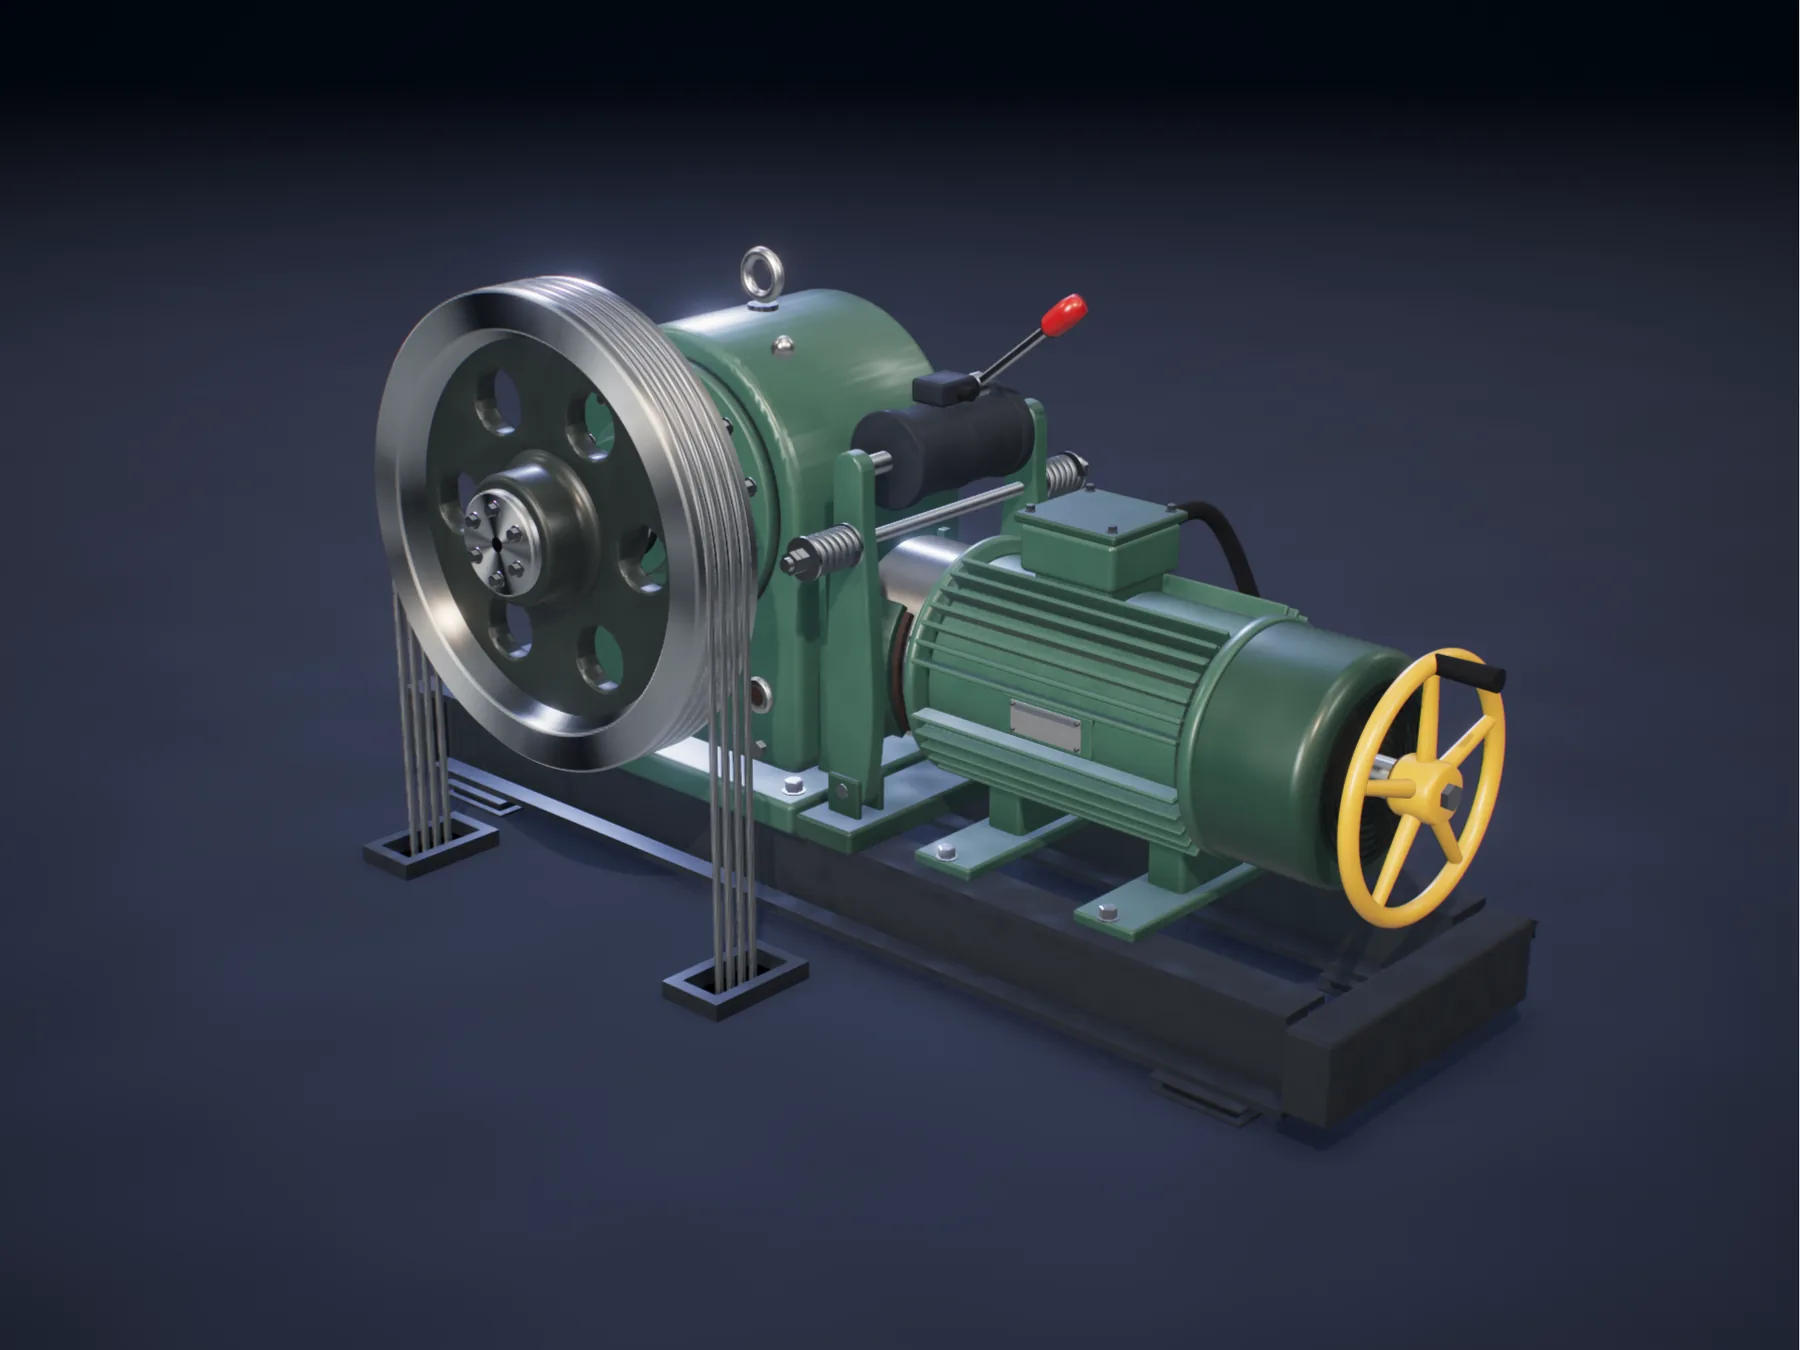
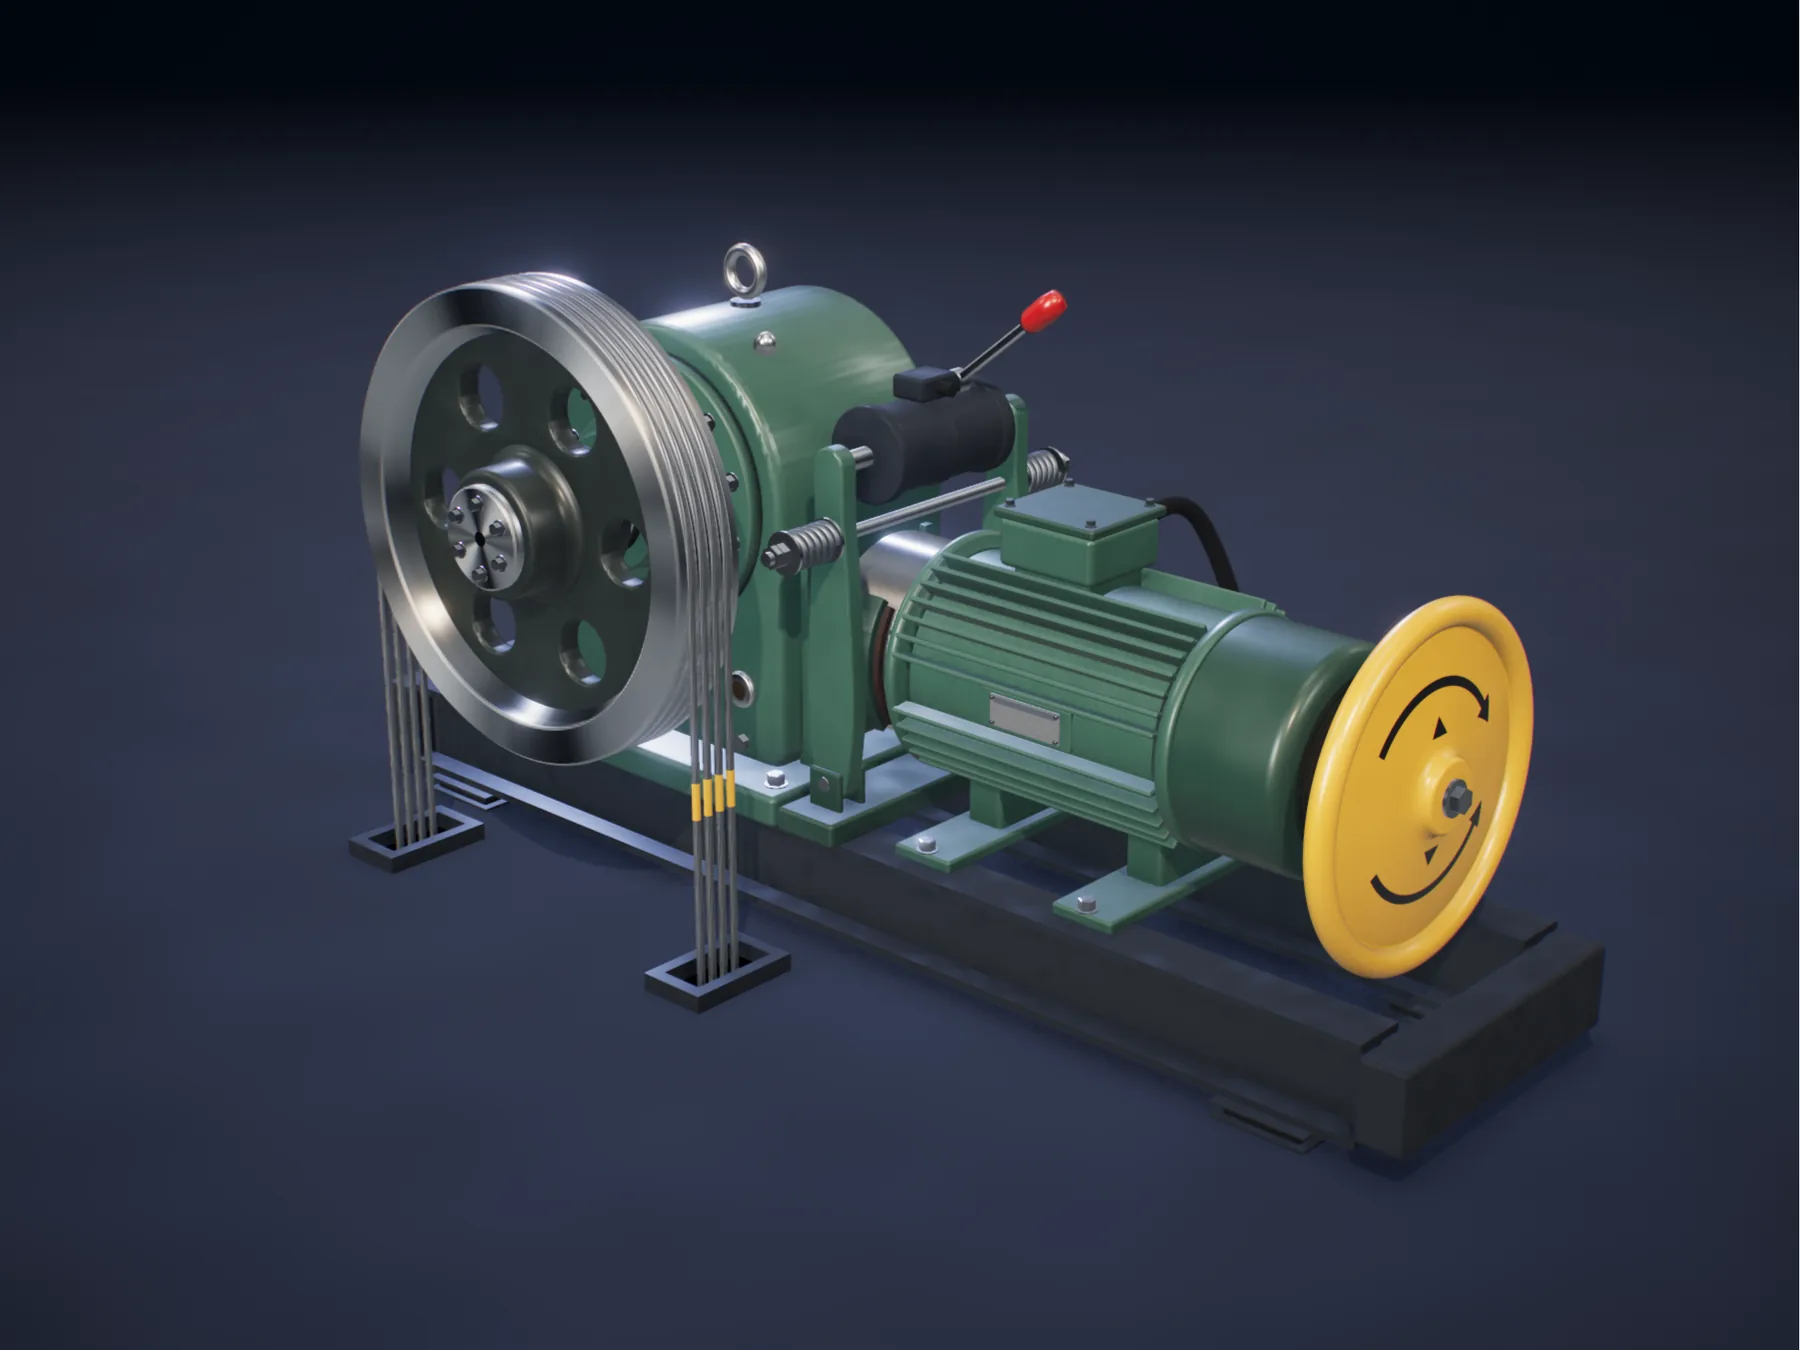
feat(argano): волан за асансьор — гладък диск без спици, посоки и маркировки по въжетата
- Воланът за ръчната маневра е гладък диск без спици и без дръжка, с
  навит ръб за хващане, жълт, с нарисувани посоки (стрелка във всяка
  посока, ▲ и ▼). Радиусът на хващане е 0,2 m — радиусът на волана от
  пример A (rh).
- Жълти маркировки по въжетата за ръчното спасяване; движат се с
  въжетата.
- Рамата е удължена: воланът слиза между гредите.
- Нов постер (20/32/51 KB).

Claude-Session: https://claude.ai/code/session_01JTq1AH8GzUr8vPLWF3yu9S

Changed region(s): [[0.1867, 0.1556, 0.9022, 0.8711]]

diff --git a/argano/src/components/machine/materials.ts b/argano/src/components/machine/materials.ts
@@ -2,7 +2,7 @@
 // materials with procedural surface detail instead of texture files, so the scene loads nothing but code.
 // Loaded only through boot.ts, after the prefers-reduced-motion and save-data gate of MachineStage.tsx.
 import * as THREE from 'three/webgpu';
-import { uv, vec2, vec3, float, sin, abs, atan, mix, step, floor, clamp, smoothstep, fract, length, positionLocal, positionWorld, mx_noise_float, materialColor, materialRoughness, uniform } from 'three/tsl';
+import { uv, vec2, vec3, float, sin, abs, atan, mix, step, floor, clamp, smoothstep, fract, length, positionLocal, positionWorld, normalLocal, mx_noise_float, materialColor, materialRoughness, uniform } from 'three/tsl';
 
 const TAU = Math.PI * 2;
 const physical = (p: THREE.MeshPhysicalNodeMaterialParameters) => new THREE.MeshPhysicalNodeMaterial(p);
@@ -11,14 +11,45 @@ const standard = (p: THREE.MeshStandardNodeMaterialParameters) => new THREE.Mesh
 // Years in a machine room: dust and oil mist settle low, so the paint darkens and dulls toward the bedplate.
 const grime = smoothstep(0.13, 0.34, positionWorld.y);
 
-/** Old machine enamel: orange peel and a slightly uneven tone under a thin clear coat. */
-function enamel(hex: string, { roughness = 0.42, clearcoat = 0.5, scale = 22 } = {}) {
+/** Old machine enamel: orange peel and a slightly uneven tone under a thin clear coat; ink: lettering painted on it. */
+interface EnamelOptions {
+  roughness?: number;
+  clearcoat?: number;
+  scale?: number;
+  ink?: THREE.Node<'float'>;
+}
+function enamel(hex: string, { roughness = 0.42, clearcoat = 0.5, scale = 22, ink }: EnamelOptions = {}) {
   const m = physical({ color: new THREE.Color(hex), roughness, metalness: 0, clearcoat, clearcoatRoughness: 0.22 });
   const n = mx_noise_float(positionLocal.mul(scale));
   const blot = mx_noise_float(positionLocal.mul(3.1)).mul(0.5).add(0.5);
-  m.colorNode = materialColor.mul(n.mul(0.035).add(blot.mul(0.08)).add(0.95)).mul(mix(float(0.8), float(1), grime));
+  const paint = materialColor.mul(n.mul(0.035).add(blot.mul(0.08)).add(0.95)).mul(mix(float(0.8), float(1), grime));
+  m.colorNode = ink ? mix(paint, vec3(0.018, 0.018, 0.02), ink) : paint;
   m.roughnessNode = materialRoughness.mul(n.mul(0.3).add(1)).mul(mix(float(1.25), float(1), grime));
   return m;
+}
+
+/**
+ * The directions of travel painted on the handwheel face (parts/motor.ts: the wheel axis is local X): an arrow each
+ * way round, with ▲ (up) and ▼ (down), as they are marked close to the manual emergency operation.
+ */
+function travelArrows() {
+  const q = positionLocal;
+  const sx = q.z.negate(), sy = q.y; // the face seen from beyond the motor: right, up
+  const rr = length(q.yz);
+  const psi = atan(sy, sx);
+  const off = abs(rr.sub(0.118));
+  const arcs = smoothstep(0.0062, 0.0046, off).mul(step(0.62, psi).mul(step(psi, 2.55)).add(step(-2.55, psi).mul(step(psi, -0.62))));
+  // arrow heads: triangles along the arc, from the base (k = 1) to the tip (k = 0)
+  const head = (base: number, tip: number) => {
+    const k = psi.sub(tip).div(base - tip);
+    return step(0, k).mul(step(k, 1)).mul(step(off, k.mul(0.017)));
+  };
+  const tri = (cy: number, dir: number) => {
+    const h = sy.sub(cy).mul(dir);
+    return step(abs(h), 0.011).mul(step(abs(sx), h.negate().add(0.011).mul(0.65)));
+  };
+  const face = smoothstep(0.55, 0.85, normalLocal.x).mul(step(rr, 0.165));
+  return clamp(arcs.add(head(0.62, 0.38)).add(head(-0.62, -0.38)).add(tri(0.074, 1)).add(tri(-0.074, -1)), 0, 1).mul(face);
 }
 
 /** Steel parts (bolts, pins, rods): a fine grain in the roughness breaks up the reflection. */
@@ -44,7 +75,7 @@ export interface MachineMaterials {
   paintDark: THREE.MeshPhysicalNodeMaterial;
   frame: THREE.MeshPhysicalNodeMaterial;
   sheavePaint: THREE.MeshPhysicalNodeMaterial;
-  yellow: THREE.MeshPhysicalNodeMaterial;
+  handwheel: THREE.MeshPhysicalNodeMaterial;
   red: THREE.MeshPhysicalNodeMaterial;
   steel: THREE.MeshPhysicalNodeMaterial;
   spring: THREE.MeshPhysicalNodeMaterial;
@@ -71,8 +102,13 @@ export function createMaterials(ropeLength: number): MachineMaterials {
   const strand = sin(uv().y.mul(TAU * 8).add(along.mul(TAU))).mul(0.5).add(0.5);
   const wire = sin(uv().y.mul(TAU * 48).add(along.mul(TAU * 5.5))).mul(0.5).add(0.5);
   const lay = strand.pow(0.6).mul(wire.mul(0.25).add(0.75));
-  rope.colorNode = materialColor.mul(mix(float(0.32), float(1.05), lay));
-  rope.roughnessNode = mix(float(0.62), float(0.28), lay);
+  // Yellow paint marks on the ropes, for manual rescue: they show when the car is at a floor, and travel with the ropes.
+  const s = fract(uv().x.sub(ropeShift));
+  const mark = step(0.775, s).mul(step(s, 0.775 + 0.045 / ropeLength));
+  const markPaint = new THREE.Color('#e0a526');
+  rope.colorNode = mix(materialColor.mul(mix(float(0.32), float(1.05), lay)), vec3(markPaint.r, markPaint.g, markPaint.b).mul(0.85), mark);
+  rope.roughnessNode = mix(mix(float(0.62), float(0.28), lay), float(0.55), mark);
+  rope.metalnessNode = mix(float(1), float(0), mark);
 
   // Sheave rim: turned cast iron, brighter and smoother in the grooves where the ropes polish it. The lathe axis
   // is the local Z (parts/sheave.ts), so the radius is measured in the local XY plane.
@@ -111,7 +147,7 @@ export function createMaterials(ropeLength: number): MachineMaterials {
     paintDark: enamel('#2e4a40', { roughness: 0.5 }),
     frame: enamel('#262d36', { roughness: 0.72, clearcoat: 0.08, scale: 30 }),
     sheavePaint: enamel('#2c3432', { roughness: 0.46, clearcoat: 0.4 }),
-    yellow: enamel('#e0a526', { roughness: 0.34, clearcoat: 0.7 }),
+    handwheel: enamel('#e0a526', { roughness: 0.34, clearcoat: 0.7, ink: travelArrows() }),
     red: enamel('#b8231b', { roughness: 0.3, clearcoat: 0.8 }),
     steel: steel('#c3c9d0', 0.22),
     spring: steel('#79818a', 0.32),

diff --git a/argano/src/components/machine/parts/motor.ts b/argano/src/components/machine/parts/motor.ts
@@ -88,19 +88,26 @@ export function motor(M: MachineMaterials): THREE.Group {
   return g;
 }
 
-/** Emergency handwheel on the motor shaft end (it turns with the worm). */
+/** Grip radius of the handwheel: the handwheel radius of example A (rh, src/calc/presets.ts). */
+const GRIP = 0.2;
+/** Mid-surface of the dished web: the hub stands 18 mm proud of the rim. */
+const dish = (r: number) => 0.018 * (1 - (r - 0.05) / 0.126);
+
+/**
+ * Emergency handwheel on the motor shaft end, as lift machines have it: a smooth dished disc with a rolled rim to
+ * grip, no spokes and no handle, painted yellow, the directions of travel painted on its face (materials.ts). It
+ * turns with the worm.
+ */
 export function handwheel(M: MachineMaterials): THREE.Group {
   const g = new THREE.Group();
-  g.add(mesh(new THREE.TorusGeometry(0.14, 0.011, 18, 120).rotateY(Math.PI / 2), M.yellow));
-  g.add(mesh(latheX([V(0.0001, -0.028), V(0.03, -0.028), V(0.034, -0.02), V(0.034, 0.02), V(0.03, 0.028), V(0.0001, 0.028)], 48), M.yellow));
-  for (let i = 0; i < 5; i++) {
-    const a = (i / 5) * Math.PI * 2;
-    const spoke = mesh(new THREE.CylinderGeometry(0.0075, 0.0105, 0.11, 16), M.yellow, 0, Math.cos(a) * 0.087, Math.sin(a) * 0.087);
-    spoke.rotation.x = a;
-    g.add(spoke);
-  }
-  g.add(mesh(new THREE.CylinderGeometry(0.011, 0.013, 0.075, 20).rotateZ(Math.PI / 2), M.rubber, 0.04, 0.14, 0)); // grip
-  g.add(mesh(hexZ(0.015, 0.01).rotateY(Math.PI / 2), M.steel, 0.032, 0, 0)); // nut on the shaft end
+  const rc = GRIP - 0.01, rb = 0.016, ac = 0.004, t = 0.0035; // rim bead centre, bead radius, half web thickness
+  const pts = [V(0.0001, -0.06), V(0.03, -0.06), V(0.034, -0.056), V(0.034, -0.03), V(0.042, -0.024), V(0.042, 0.006), V(0.046, 0.012), V(0.052, dish(0.052) - t)];
+  for (let r = 0.07; r < 0.172; r += 0.02) pts.push(V(r, dish(r) - t));
+  for (let deg = 209; deg <= 542; deg += 9) pts.push(V(rc + rb * Math.cos((deg * Math.PI) / 180), ac + rb * Math.sin((deg * Math.PI) / 180)));
+  for (let r = 0.17; r > 0.06; r -= 0.02) pts.push(V(r, dish(r) + t));
+  pts.push(V(0.052, dish(0.052) + t), V(0.046, 0.026), V(0.042, 0.031), V(0.042, 0.036), V(0.038, 0.04), V(0.0001, 0.04));
+  g.add(mesh(latheX(pts, 128), M.handwheel));
+  g.add(mesh(cylX(0.021, 0.004, 32), M.steel, 0.042, 0, 0), mesh(hexZ(0.015, 0.011).rotateY(Math.PI / 2), M.steel, 0.0495, 0, 0)); // washer and nut
   return g;
 }
 

diff --git a/argano/src/components/machine/parts/frame.ts b/argano/src/components/machine/parts/frame.ts
@@ -12,15 +12,15 @@ export function bedplate(M: MachineMaterials): THREE.Group {
   const fw = 0.035, h = 0.12, tf = 0.01, tw = 0.004;
   s.moveTo(-fw, 0); s.lineTo(fw, 0); s.lineTo(fw, tf); s.lineTo(tw, tf); s.lineTo(tw, h - tf); s.lineTo(fw, h - tf); s.lineTo(fw, h);
   s.lineTo(-fw, h); s.lineTo(-fw, h - tf); s.lineTo(-tw, h - tf); s.lineTo(-tw, tf); s.lineTo(-fw, tf); s.closePath();
-  const beam = new THREE.ExtrudeGeometry(s, { depth: 1.4, bevelEnabled: false }).rotateY(Math.PI / 2);
+  const beam = new THREE.ExtrudeGeometry(s, { depth: 1.52, bevelEnabled: false }).rotateY(Math.PI / 2); // x -0.46 … 1.06
   const plate = new RoundedBoxGeometry(0.12, 0.004, 0.1, 1, 0.0015);
   const rubber = new RoundedBoxGeometry(0.1, 0.013, 0.085, 2, 0.004);
   for (const z of [-DIM.zBeam, DIM.zBeam]) {
     g.add(mesh(beam, M.frame, -0.46, 0.02, z));
-    for (const x of [-0.36, 0.84]) g.add(mesh(plate, M.frame, x, 0.002, z), mesh(rubber, M.rubber, x, 0.0105, z), mesh(plate, M.frame, x, 0.018, z));
+    for (const x of [-0.36, 0.95]) g.add(mesh(plate, M.frame, x, 0.002, z), mesh(rubber, M.rubber, x, 0.0105, z), mesh(plate, M.frame, x, 0.018, z));
   }
   const cross = new RoundedBoxGeometry(0.06, 0.1, 0.4, 2, 0.006);
-  for (const x of [-0.49, 0.97]) g.add(mesh(cross, M.frame, x, 0.08, 0));
+  for (const x of [-0.49, 1.09]) g.add(mesh(cross, M.frame, x, 0.08, 0)); // the handwheel dips between the beams
   return g;
 }
 

diff --git a/argano/src/components/machine/parts/index.ts b/argano/src/components/machine/parts/index.ts
@@ -1,8 +1,8 @@
 // Geometry of a geared traction machine, in metres: bedplate on anti-vibration mounts, worm gearbox (worm below
 // the wheel), drum brake with its magnet, springs and hand release, flange-shield motor with cooling fins,
 // emergency handwheel on the shaft end and the traction sheave with its ropes. The machine is the calculator's
-// example A: sheave D 560, 4 ropes of 10 mm, ratio 1:43, 7.5 kW (src/calc/presets.ts); nothing here is a real
-// product.
+// example A: sheave D 560, 4 ropes of 10 mm, ratio 1:43, 7.5 kW, handwheel radius 0.2 m (src/calc/presets.ts);
+// nothing here is a real product.
 // Loaded only through boot.ts, after the prefers-reduced-motion and save-data gate of MachineStage.tsx.
 import * as THREE from 'three/webgpu';
 import type { MachineMaterials } from '../materials';
@@ -26,7 +26,7 @@ export function buildMachine(M: MachineMaterials): Machine {
   const group = new THREE.Group();
   const b = brake(M);
   const wheel = handwheel(M);
-  wheel.position.set(0.965, DIM.yWorm, 0);
+  wheel.position.set(0.99, DIM.yWorm, 0);
   const s = sheave(M);
   s.position.set(0, DIM.yWheel, DIM.zSheave);
   group.add(bedplate(M), floorOpenings(M), gearbox(M), b.group, motor(M), wheel, s, ropes(M), conduit(M));

diff --git a/argano/src/components/machine/scene.ts b/argano/src/components/machine/scene.ts
@@ -9,7 +9,7 @@ import type { Quality } from './quality';
 
 /** Background of the stage; the page paints the same colour behind the picture (globals.css, .stage). */
 export const STAGE_BG = '#0e1422';
-const TARGET = new THREE.Vector3(0.28, 0.31, 0.06);
+const TARGET = new THREE.Vector3(0.31, 0.31, 0.06);
 const RATIO = 43; // example A: 1:43
 const SHEAVE_SPEED = 0.2; // rad/s, slowed down for the eye: the handwheel turns 43 times faster
 
